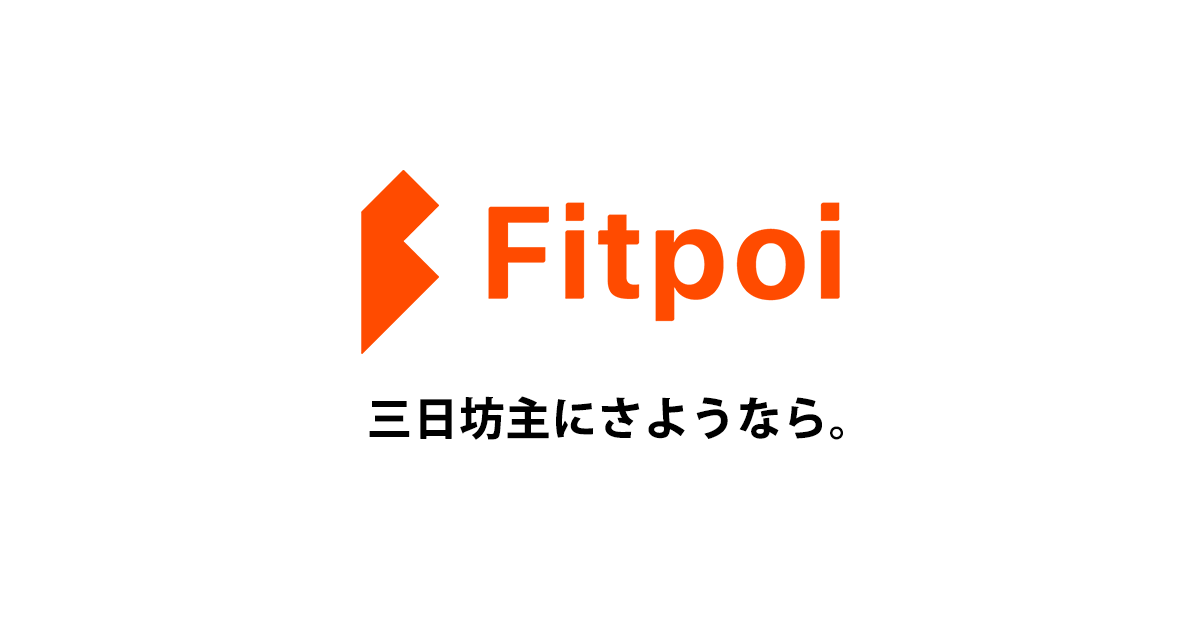
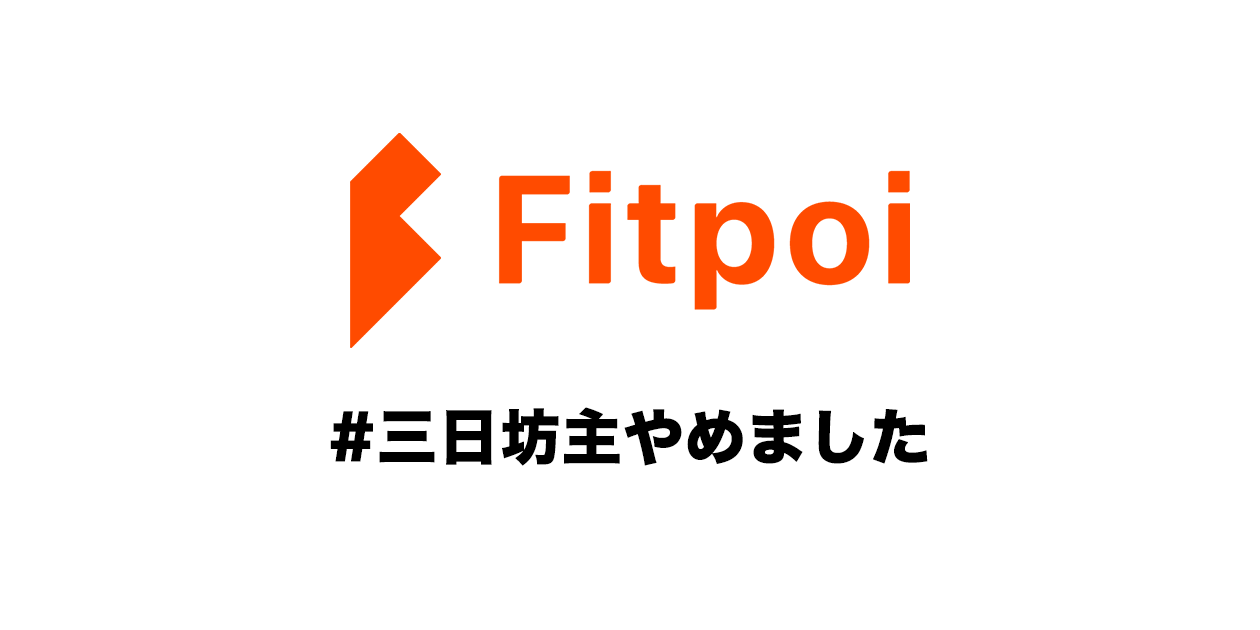
OGP画像修正

Changed region(s): [[0.2775, 0.2111, 0.74, 0.573], [0.2467, 0.6333, 0.74, 0.754]]

diff --git a/nuxt.config.js b/nuxt.config.js
@@ -38,7 +38,7 @@ export default {
       { hid: "og:site_name", property: "og:site_name", content: "Fitpoi"},
       { hid: "og:type", property: "og:type", content: "website" },
       { hid: "og:url", property: "og:url", content: "https://fitpoi.com/" },
-      { hid: "og:title", property: "og:title", content: "三日坊主とさようなら。｜運動モチベ維持アプリ Fitpoi" },
+      { hid: "og:title", property: "og:title", content: "三日坊主にさようなら｜運動モチベ維持アプリ Fitpoi" },
       { hid: "og:description", property: "og:description", content: "運動できる環境がいくら整っていても、続かないんじゃ意味がない。Fitpoi アプリは、運動があなたの生活の一部になるまでをお手伝いするフィットネスモチベーション維持アプリです。あなたの『負けず嫌い』を刺激させていただきます。"},
       { hid: "og:image", property: "og:image", content: "/OGP.png"},
       { property: "og:locale",content: "ja_JP"},
